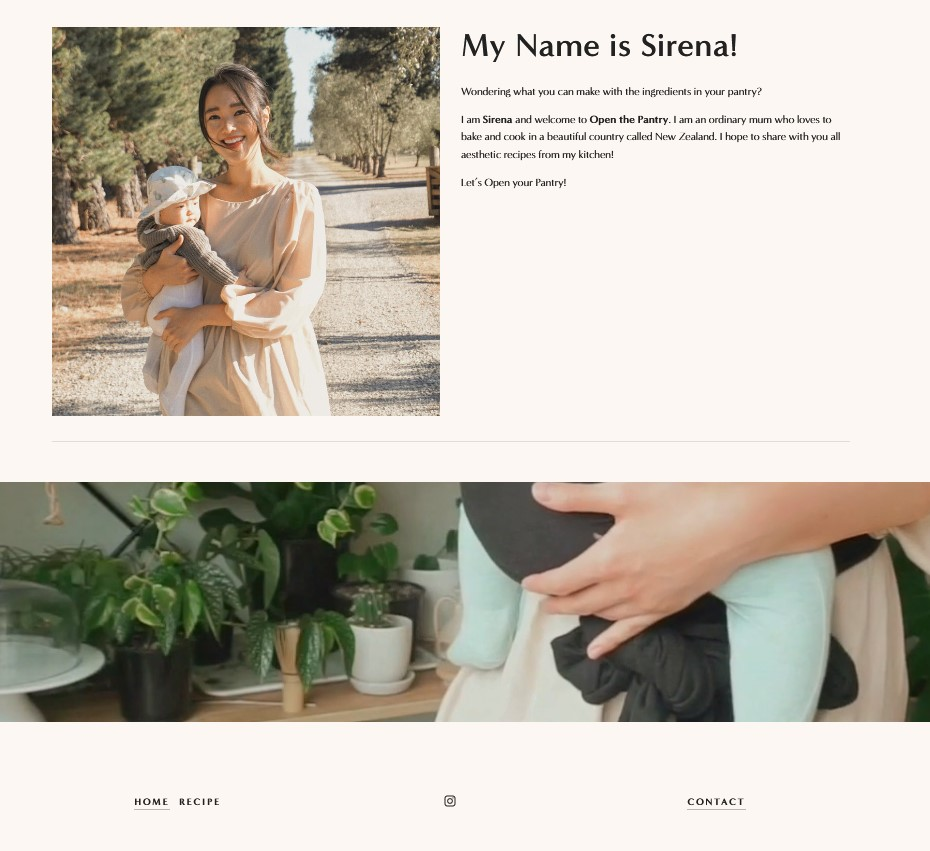
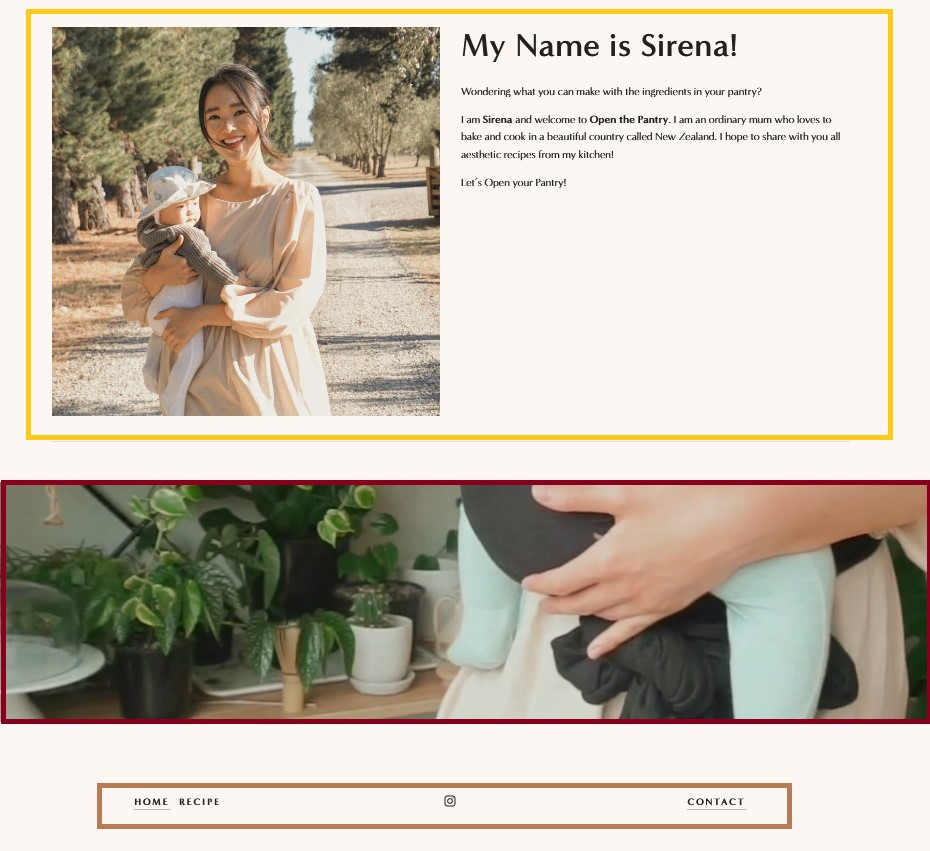
Update readme and mockups

Changed region(s): [[0.0, 0.0, 0.9667, 0.5194], [0.0, 0.5499, 1.0, 0.8555], [0.0935, 0.9166, 0.8731, 0.9777]]

diff --git a/README.md b/README.md
@@ -12,11 +12,40 @@ Thinking about how the concepts of the React library can be applied to create a 
   - https://www.openthepantry.co.nz/
 - please find mockups under the mockups folder in this repo
 
-## Component Hierarchy
+## Component Hierarchy / Pages
+
+![Blog landing page (top)](/mockups/home.jpg)
+![Blog landing page (bottom)](/mockups/footer.jpg)
+
+### Components
+
+Navbar (black)
+InstagramFollowing (blue)
+RecipeCategoryList
+RecipeCategory (magenta)
+RecipeOverview (green)
+BlogIntro (yellow)
+FooterBanner (mauve)
+MainFooter (brown)
+Searchbar
+
+### Pages
+
+Home
+SearchResults
+Recipe
+Categories
+About
+Contact
 
 ## Minimal Representation of State
+
+## Potential Required Packages/Libraries/Components
+
+[React Instagram Embed](https://www.npmjs.com/package/react-instagram-embed)
 
 ## References
 
 [Thinking in React Guide](https://reactjs.org/docs/thinking-in-react.html)
 [Open The Pantry Food Blog](https://www.openthepantry.co.nz/)
+[Airbnb React/JSX Style Guide](https://airbnb.io/javascript/react/#naming)
